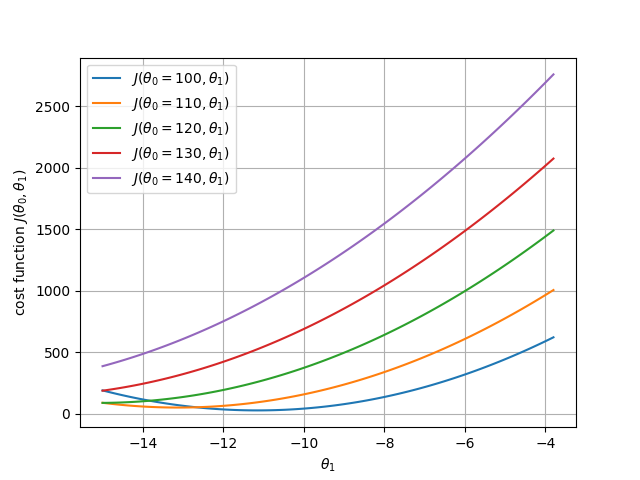
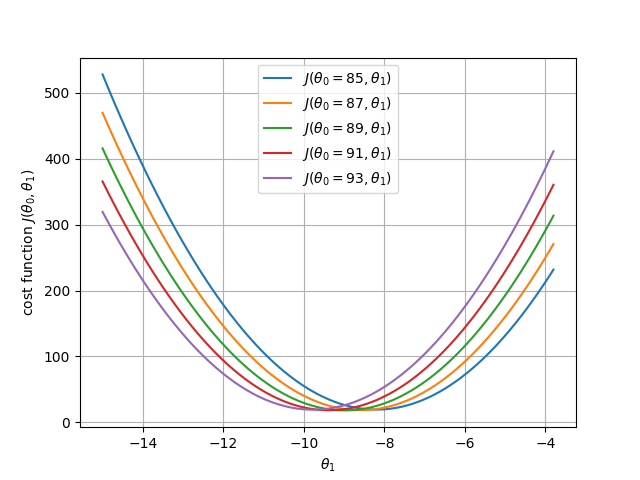
d06/ex07 README.md

diff --git a/day06/ex07/linear_model.py b/day06/ex07/linear_model.py
@@ -6,7 +6,7 @@
 #    By: mli <mli@student.42.fr>                    +#+  +:+       +#+         #
 #                                                 +#+#+#+#+#+   +#+            #
 #    Created: 2020/12/20 18:27:27 by mli               #+#    #+#              #
-#    Updated: 2020/12/21 00:24:34 by mli              ###   ########.fr        #
+#    Updated: 2020/12/21 15:26:11 by mli              ###   ########.fr        #
 #                                                                              #
 # **************************************************************************** #
 
@@ -39,7 +39,7 @@ def plot_cost(x: np.ndarray, y: np.ndarray) -> None:
     plt.grid()
 
     linear_model = MyLR(np.array([[0], [0]]), max_iter=500)
-    thetas_0 = range(100, 150, 10)
+    thetas_0 = range(85, 95, 2)
     for t0 in thetas_0:
         linear_model.thetas[0][0] = t0
 

diff --git a/day06/ex07/README.md b/day06/ex07/README.md
@@ -1,0 +1,11 @@
+### A graph with the data and the best hypothesis
+
+<p align="center">
+  <img src="plot_h.png" alt="plot of hypothesis" />
+</p>
+
+### Cost function J(θ) in function of the θ values
+
+<p align="center">
+  <img src="plot_costs.png" alt="plot of function J" />
+</p>
